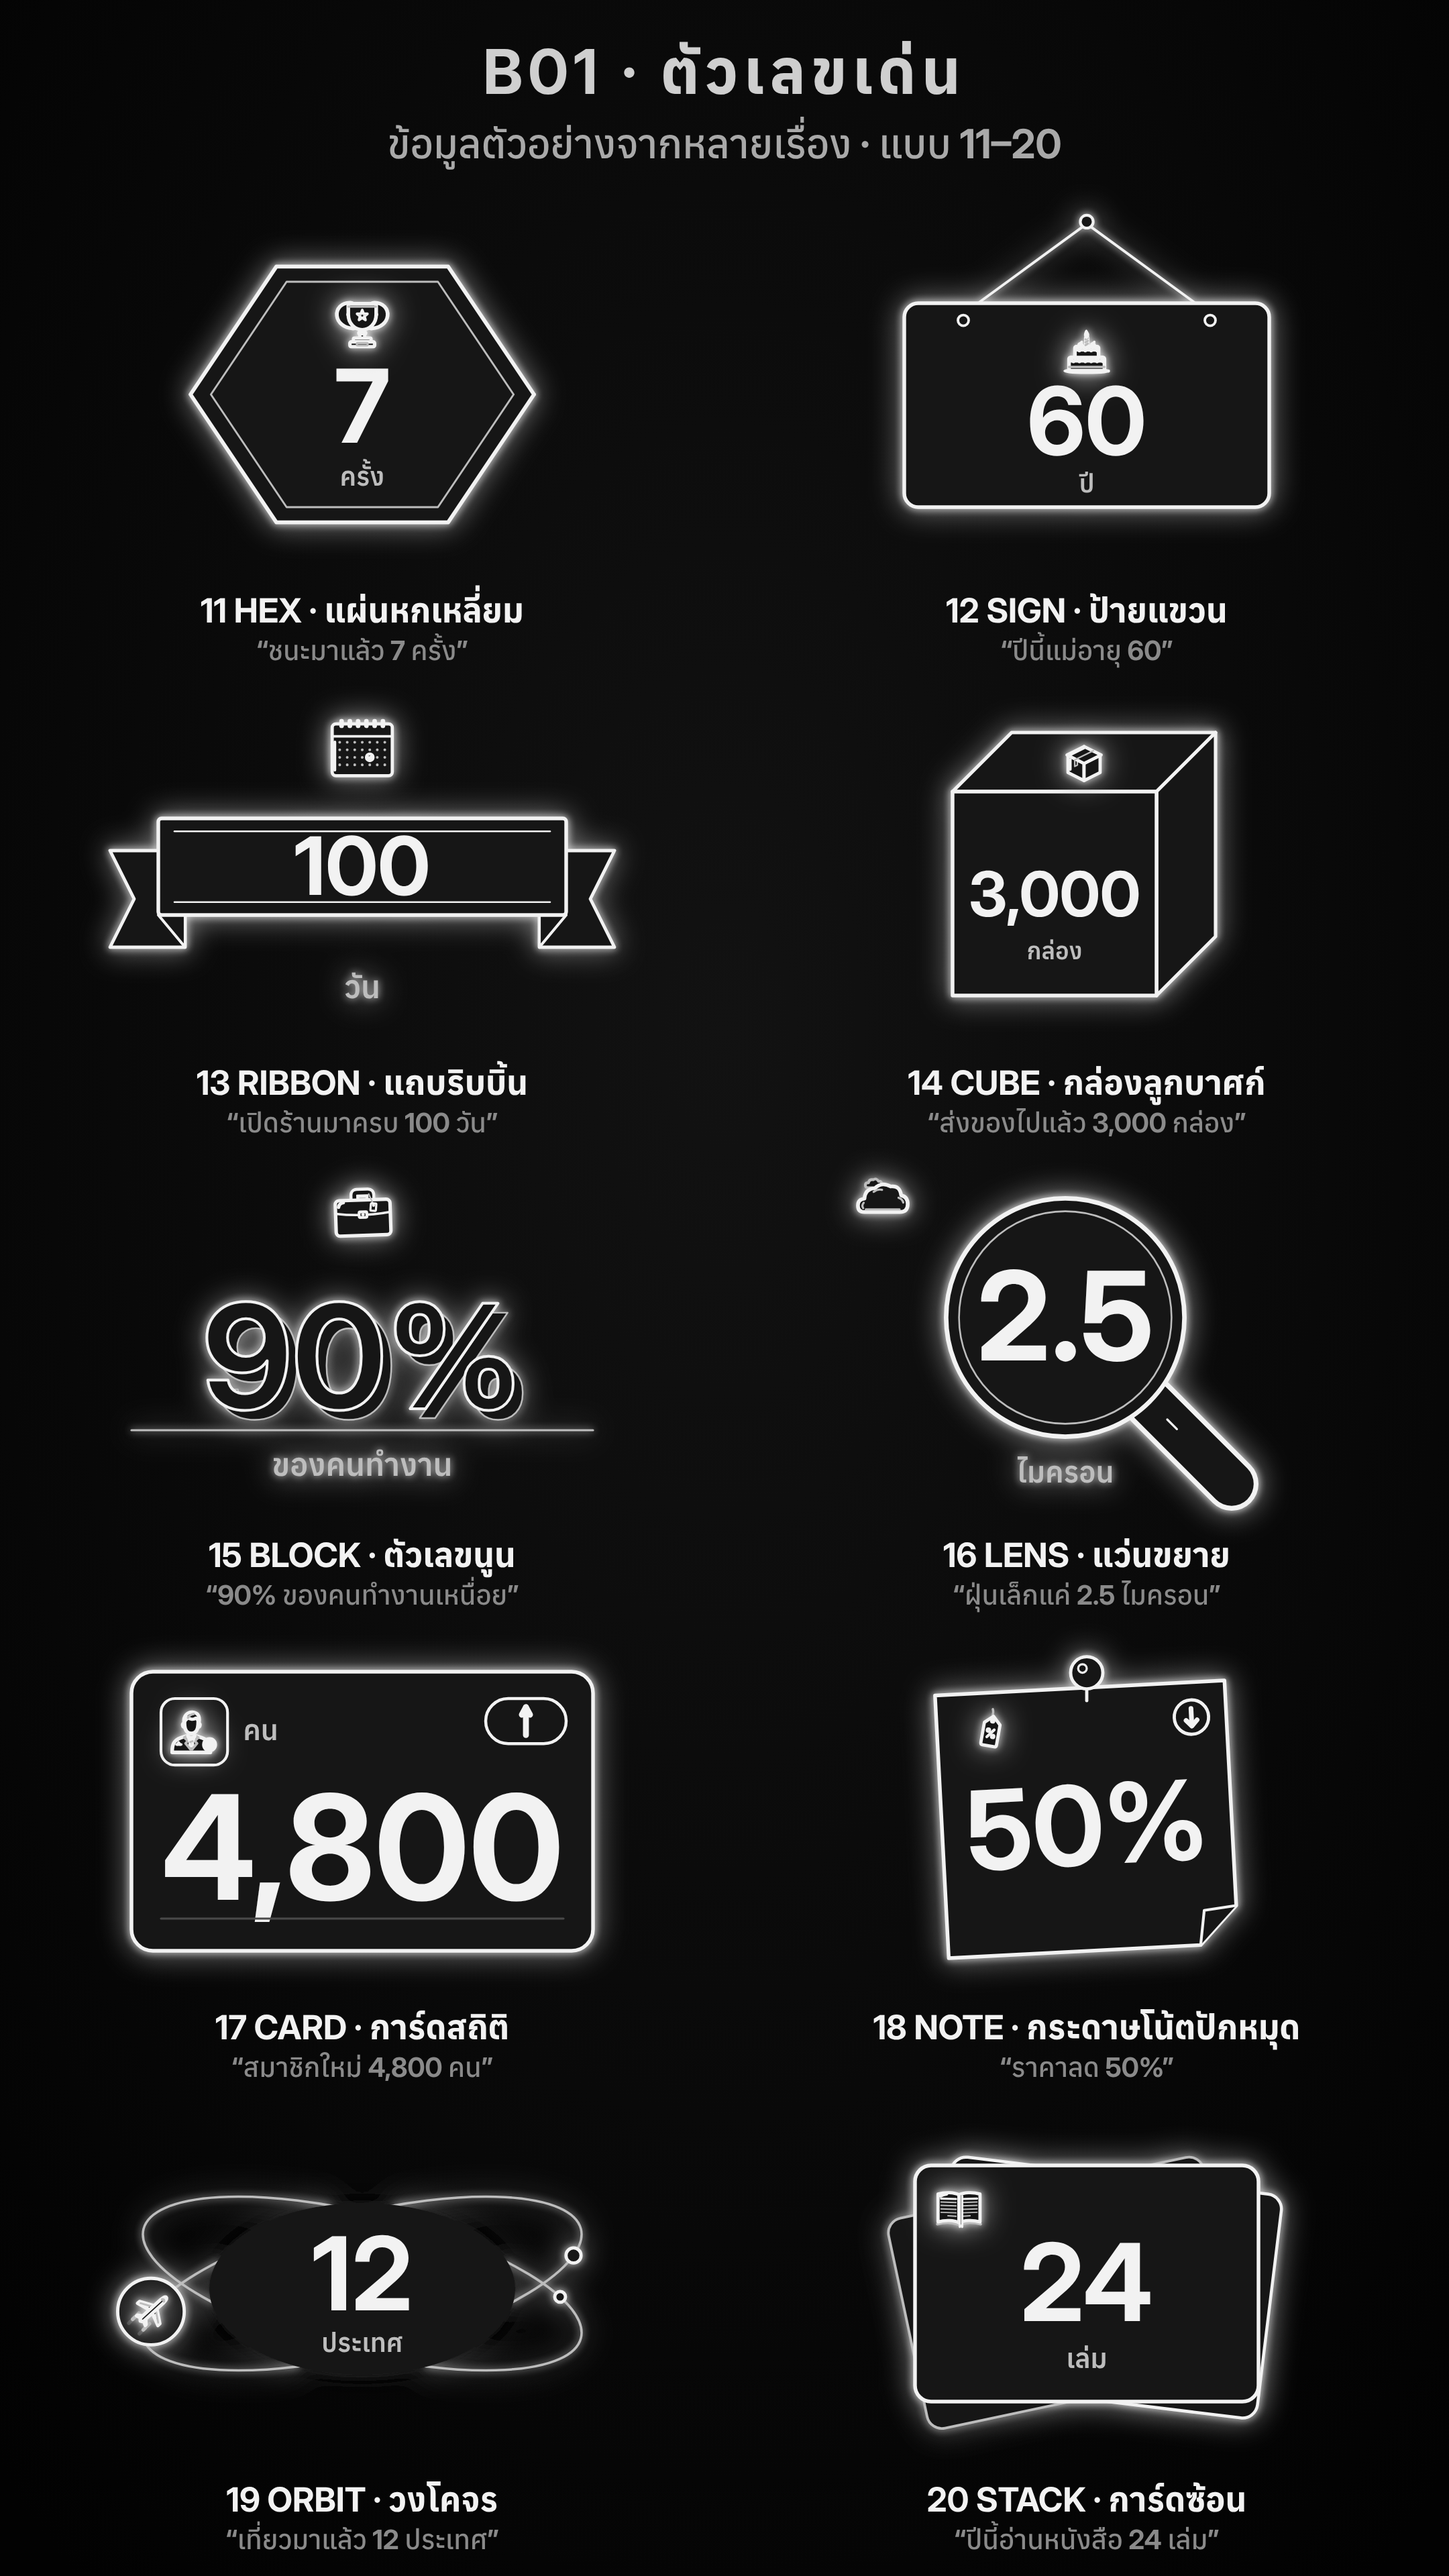
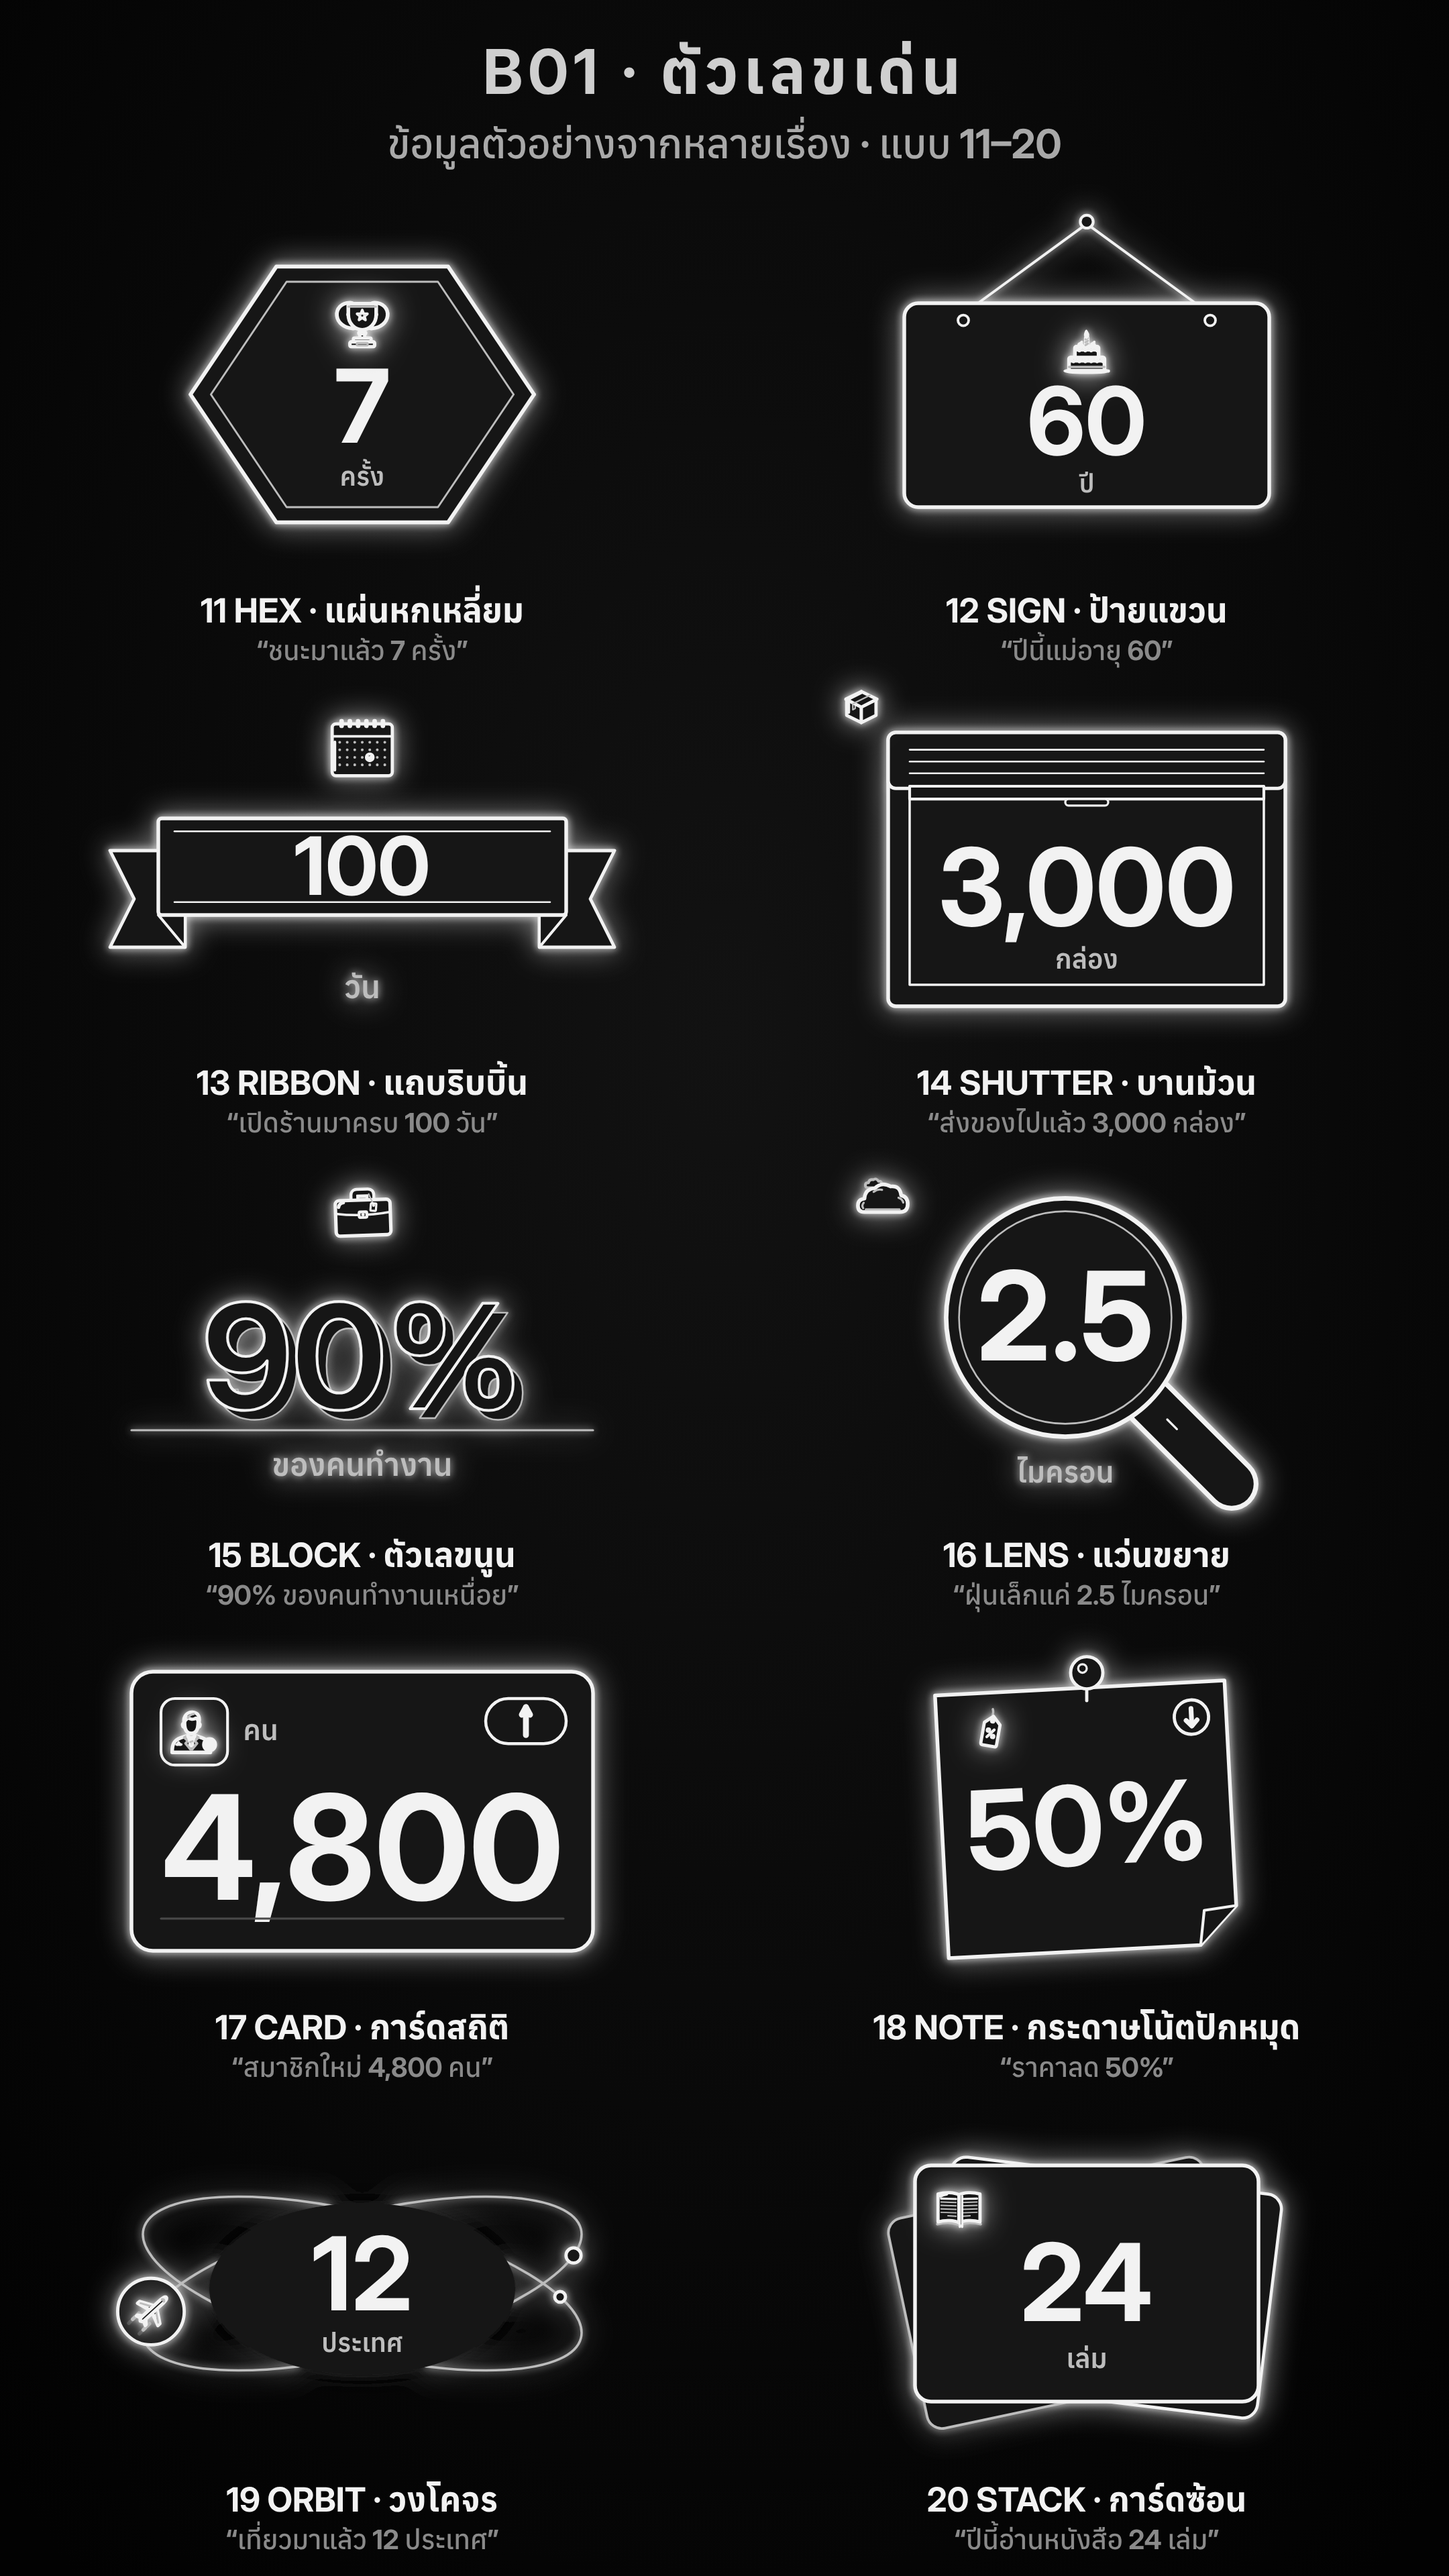
glow-line-motion: B01 design 14 = roller shutter (user's pick), cube removed
Claude-Session: https://claude.ai/code/session_01S8EfU7fAEGeBWyNc1CqSTP

Changed region(s): [[0.5583, 0.25, 0.8995, 0.4375]]

diff --git a/.claude/skills/glow-line-motion/examples/b01/b01.js b/.claude/skills/glow-line-motion/examples/b01/b01.js
@@ -271,17 +271,18 @@
     icon(d, 0, -222, 140, c);
   });
 
-  /* 14 ── CUBE: a cube, the number on its front face, the icon on its top */
-  variant('cube', 'กล่องลูกบาศก์', (d, c) => {
+  /* 14 ── SHUTTER: a roller shutter has rolled up into its box, the number stands in the opening (user picked it over CUBE, 2026-11-12) */
+  variant('shutter', 'บานม้วน', (d, c) => {
     art(c, p => {
-      p.shape([[-250, -140], [130, -140], [240, -250], [-140, -250]], F(3.2));
-      p.shape([[130, -140], [240, -250], [240, 130], [130, 240]], F(3.2));
-      p.rect(-250, -140, 380, 380, F(3.4));
-      txt(p, d.value, -60, d.unit ? 92 : 112, { size: 150, maxW: 320 });
-      if (d.unit) txt(p, d.unit, -60, 172, { size: 44, weight: 600, color: C.soft, maxW: 320 });
-      if (d.dir === 'up') arrowLine(p, 185, 60, 185, -100, 5); if (d.dir === 'down') arrowLine(p, 185, -100, 185, 60, 5);
+      p.rect(-370, -250, 740, 510, Object.assign({ rx: 14 }, F(3.4)));
+      p.rect(-330, -150, 660, 370, F(2.2));
+      p.rect(-370, -250, 740, 104, Object.assign({ rx: 14 }, F(3.2))); [-218, -196, -174].forEach(y => p.line(-330, y, 330, y, W(1.6)));
+      p.rect(-330, -150, 660, 24, F(2.6)); p.rect(-40, -126, 80, 12, Object.assign({ rx: 6 }, F(2)));
+      txt(p, d.value, 0, d.unit ? 110 : 130, { size: 200, maxW: 580 });
+      if (d.unit) txt(p, d.unit, 0, 190, { size: 50, weight: 600, color: C.soft, maxW: 560 });
+      dirBadge(p, d.dir, 330, -98, 30);
     });
-    icon(d, -5, -195, 92, c);
+    icon(d, -420, -300, 84, c);
   });
 
   /* 15 ── BLOCK: the number itself as a thick 3D slab on a floor line */
@@ -340,50 +341,6 @@
       dirBadge(q, d.dir, 205, -165, 32);
     });
     icon(d, -175, -150, 82, c);
-  });
-
-  /* 14 alternatives (user asked to redesign CUBE, 2026-11-12) — kept outside V until the user picks one */
-  const ALT14 = [];
-  const alt = (id, th, build) => ALT14.push({ id, th, build });
-
-  /* 14a ── PLINTH: the number stands on a display plinth, the unit engraved on its front */
-  alt('plinth', 'แท่นโชว์', (d, c) => {
-    art(c, p => {
-      p.rect(-240, 296, 480, 30, Object.assign({ rx: 6 }, F(3)));
-      p.rect(-200, 128, 400, 168, F(3.2)); p.line(-170, 150, -170, 274, W(1.6)); p.line(170, 150, 170, 274, W(1.6));
-      p.rect(-232, 102, 464, 28, Object.assign({ rx: 6 }, F(3)));
-      txt(p, d.value, 0, 46, { size: 280, maxW: 780 });
-      if (d.unit) txt(p, d.unit, 0, 230, { size: 48, weight: 600, color: C.soft, maxW: 300 });
-      dirBadge(p, d.dir, 200, 128, 32);
-    });
-    icon(d, -395, -240, 100, c);
-  });
-
-  /* 14b ── SHUTTER: a roller shutter has rolled up into its box, the number stands in the opening */
-  alt('shutter', 'บานม้วน', (d, c) => {
-    art(c, p => {
-      p.rect(-370, -250, 740, 510, Object.assign({ rx: 14 }, F(3.4)));
-      p.rect(-330, -150, 660, 370, F(2.2));
-      p.rect(-370, -250, 740, 104, Object.assign({ rx: 14 }, F(3.2))); [-218, -196, -174].forEach(y => p.line(-330, y, 330, y, W(1.6)));
-      p.rect(-330, -150, 660, 24, F(2.6)); p.rect(-40, -126, 80, 12, Object.assign({ rx: 6 }, F(2)));
-      txt(p, d.value, 0, d.unit ? 110 : 130, { size: 200, maxW: 580 });
-      if (d.unit) txt(p, d.unit, 0, 190, { size: 50, weight: 600, color: C.soft, maxW: 560 });
-      dirBadge(p, d.dir, 330, -98, 30);
-    });
-    icon(d, -420, -300, 84, c);
-  });
-
-  /* 14c ── FLIP: one big split-flap tile — a hinge line runs through the middle of the number */
-  alt('flip', 'แผ่นพลิก', (d, c) => {
-    art(c, p => {
-      p.rect(-380, -200, 760, 400, Object.assign({ rx: 26 }, F(3.4)));
-      const t = txt(p, d.value, 0, 86, { size: 240, maxW: 660 }); t.e.setAttribute('y', f1(t.size * .36));
-      p.line(-380, 0, 380, 0, { sw: 9, stroke: C.fill }); p.line(-380, 0, 380, 0, W(2));
-      [-1, 1].forEach(sd => p.rect(sd * 392 - 10, -22, 20, 44, Object.assign({ rx: 6 }, F(2.6))));
-      if (d.unit) txt(p, d.unit, 0, 290, { size: 56, weight: 600, color: C.soft, maxW: 740 });
-      dirBadge(p, d.dir, 380, -200, 32);
-    });
-    icon(d, 0, -278, 110, c);
   });
 
   /* 19 ── ORBIT: two orbits circle the number; the icon rides one of them */
@@ -463,5 +420,5 @@
   ];
 
   G.cats = G.cats || {};          // GL.B01 is taken by the older beats.js template
-  G.cats.B01 = { variants: V, ALT14, SAMPLES, STRESS, draw: (i, d, c) => V[i].build(d, c) };
+  G.cats.B01 = { variants: V, SAMPLES, STRESS, draw: (i, d, c) => V[i].build(d, c) };
 })();

diff --git a/.claude/skills/glow-line-motion/HANDOFF.md b/.claude/skills/glow-line-motion/HANDOFF.md
@@ -27,14 +27,15 @@
   (**`GL.B01` ชื่อชนกับฉาก beats.js เดิม** ห้ามใช้). ผืน 1000 × 700 กลาง (0,0) เหมือนผืนเต็มจอของ CutPack.
 - ช่องข้อมูล = ของ CutPack B01: `value` (สตริงตามที่พูด) · `unit` · `icon` (ชื่อ Lucide → `GL.icons`) · `dir` up/down. ค่าสัดส่วน (ring bar gauge ruler)
   จริงเฉพาะ `%`; ไม่ใช่ % → `dir` เลือกสูง/ต่ำ หรือกลาง ๆ (ห้ามชี้ "เต็ม" มั่ว); ค่า 0 = ว่าง. ไม่มีตัวเลขอื่นบนจอ (ไม่มีเลขบนไม้บรรทัด/หน้าปัด, LCD ไม่มีเลข 8 จาง).
-- 20 แบบ: 01 hero · 02 drum · 03 lcd · 04 gauge · 05 ring · 06 bar · 07 ruler · 08 column · 09 frame · 10 spotlight · 11 hex · 12 sign · 13 ribbon ·
+- 20 แบบ (รอบแรก): 01 hero · 02 drum · 03 lcd · 04 gauge · 05 ring · 06 bar · 07 ruler · 08 column · 09 frame · 10 spotlight · 11 hex · 12 sign · 13 ribbon ·
   14 cube · 15 block · 16 lens · 17 card · 18 burst · 19 orbit · 20 stack (ชื่อไทยอยู่ในไฟล์). ตัดแบบที่ไม่กลาง: ตราริบบิ้นรางวัล (ชวนนึกถึงรางวัล) → hex.
 - แผ่น: `examples/b01/sheet-A1/A2.html` (ประโยคจาก 20 เรื่องต่างกัน) · `sheet-B1/B2.html` (ข้อมูลโหด: 9 หลัก, ไม่มีหน่วย/ไอคอน, อังกฤษ, 0, ทศนิยม).
   ภาพ: `motion/glow-line-cats/b01/b01-A1…B2.png`. **ส่งแล้ว รอผู้ใช้เลือกเก็บ/ลบ/แก้** → แล้วค่อยใส่ท่าขยับ 3–4 จังหวะ (เข้า → ทำงาน → ผลตรงคำสำคัญ → ค้าง)
   ตาม CATEGORIES ข้อ 9, ทำวิดีโอ.
 - ผู้ใช้: **"Design 18 ใหม่ ผมไม่ชอบแบบนั้น"** (burst) → เสนอ 3 ทาง (iris / scroll / note) → ผู้ใช้ **"เอา C"** → แบบ 18 = `note` กระดาษโน้ตปักหมุด (burst ลบแล้ว).
-- ผู้ใช้: **"Redesign 14 ด้วย"** (cube) → เสนอ 3 ทาง `GL.cats.B01.ALT14`: A plinth แท่นโชว์ · B shutter บานม้วน · C flip แผ่นพลิก
-  (แผ่น `examples/b01/alt14.html`, ภาพ `motion/glow-line-cats/b01/b01-14-options.png`). **รอผู้ใช้เลือก** → ใส่แทน cube ใน `V` แล้วลบ cube + ALT14 ที่เหลือ.
+- ผู้ใช้: **"Redesign 14 ด้วย"** (cube) → เสนอ 3 ทาง (plinth / shutter / flip) → ผู้ใช้ **"B"** → แบบ 14 = `shutter` บานม้วน (cube ลบแล้ว).
+- ตอนนี้ 20 แบบ: hero drum lcd gauge ring bar ruler column frame spotlight hex sign ribbon **shutter** block lens card **note** orbit stack.
+  **รอผู้ใช้ตอบว่าภาพนิ่งทั้ง 20 ผ่านหรือยัง** → ผ่านแล้วค่อยใส่ท่าขยับ.
 
 ## ✅ ตัวปรับท่าขยับกลาง — ทำเสร็จแล้ว (2026-11-12) · ผู้ใช้ตอบ **"ผ่าน"**
 
